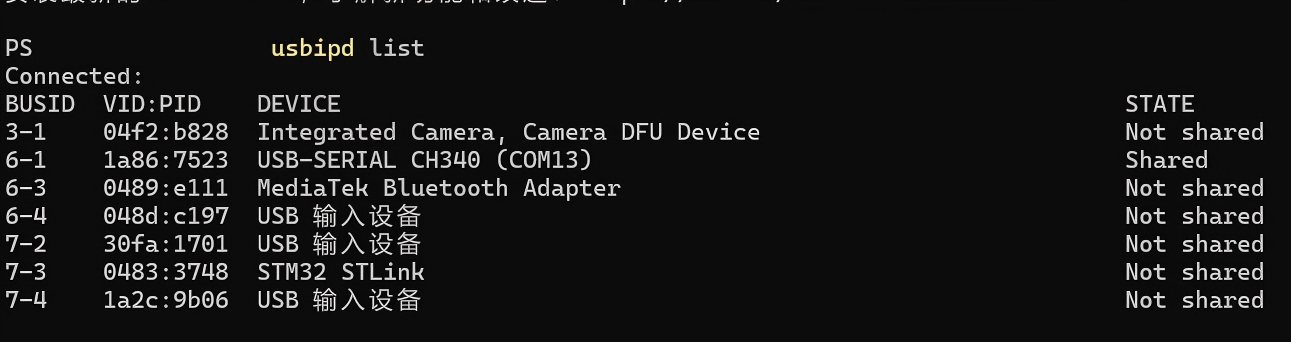
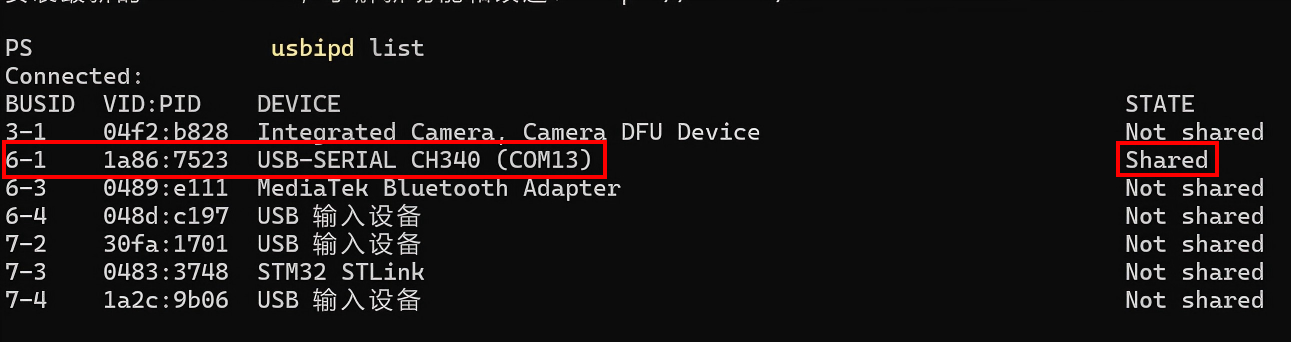
modify user name

diff --git a/docs/embedded/micro-ROS/自定义消息/自定义消息.md b/docs/embedded/micro-ROS/自定义消息/自定义消息.md
@@ -6,7 +6,18 @@
 
 # 实用性
 
-之前是用 `CubeMx` 的 `micro-ROS` 静态库，操作及其便捷，但缺点是消息类型全是使用官方的定义，无法自行定义，所以自定义消息就成了必不可少的实用选项。
+**ROS 2** 的标准消息是原生自带的， 不需要自行添加，缺点是字段较为冗余，拿上个例程中的 `sensor_msgs/msg/detail/imu__struct.h` 举例：
+
+![](./picture/p1.png)
+
+从结构体里可以看到它完整的字段组成：
+
+- **`header`**：时间戳与坐标系 ID（`frame_id`）。
+- **`orientation`** 与 **`orientation_covariance[9]`**：四元数姿态（x, y, z, w）及其 **3 × 3** 协方差矩阵。
+- **`angular_velocity`** 与 **`angular_velocity_covariance[9]`**：三轴角速度及其协方差矩阵。
+- **`linear_acceleration`** 与 **`linear_acceleration_covariance[9]`**：三轴线加速度及其协方差矩阵。
+
+在实际的工程中，我们许多时候不会用到这么多量，如果使用这个消息类型，必定会浪费内存，所以自定义消息就成了必不可少的实用选项。
 
 # 构建步骤
 

diff --git a/docs/embedded/micro-ROS/详细配置指南/详细配置指南.md b/docs/embedded/micro-ROS/详细配置指南/详细配置指南.md
@@ -233,7 +233,7 @@ void StartDefaultTask(void *argument)
 
 ## 代理端构建
 
-如果通信协议选择使用的**micro-XRCE-DDS 协议**，在运行ROS2的主机上还需构建`microros_agent`,[官方教程参照](https://github.com/micro-ROS/micro_ros_setup?tab=readme-ov-file)。按照官方教程完整流程构建，除了可配置`miccroros_agent`，**还可获得所有源码，如之前缺失的.c文件。** 但文件层次比较复杂，需仔细研究一番。
+如果通信协议选择使用的**micro-XRCE-DDS 协议**，在运行ROS2的主机上还需构建`microros_agent`,[官方教程参照](https://github.com/micro-ROS/micro_ros_setup?tab=readme-ov-file)。按照官方教程完整流程构建，除了可配置`microros_agent`，**还可获得所有源码，如之前缺失的.c文件。** 但文件层次比较复杂，需仔细研究一番。
 
 **若只构建`microros_agent`:**
 

diff --git a/README.md b/README.md
@@ -1,2 +1,2 @@
-# orangeboot4243.github.io
+# Heron-going.github.io
 我的学习笔记

diff --git a/docs/embedded/micro-ROS/自定义静态库/自定义静态库.md b/docs/embedded/micro-ROS/自定义静态库/自定义静态库.md
@@ -1,0 +1,1 @@
+# 官方资料
